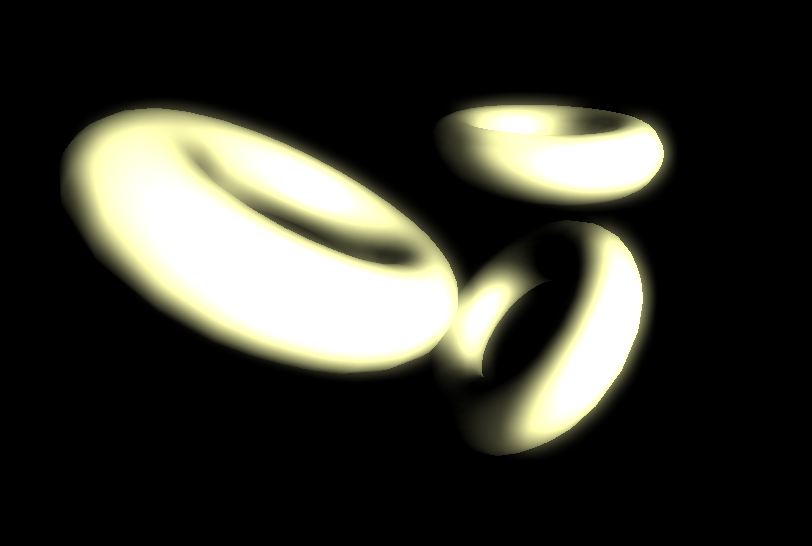
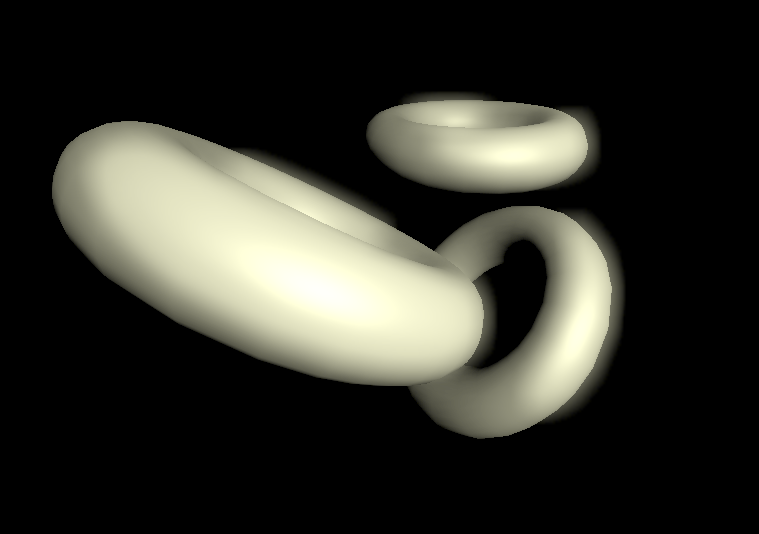
fixed missing gamma correction, updated screenshot

Changed region(s): [[0.0606, 0.1498, 0.8485, 0.839]]

diff --git a/src/main.cpp b/src/main.cpp
@@ -203,11 +203,11 @@ void UpdateTick(float deltaTime)
     transforms.proj = DirectX::XMMatrixTranspose(DirectX::XMMatrixPerspectiveFovLH(1.5f, static_cast<float>(WIDTH) / static_cast<float>(HEIGHT), 0.01f, 100.f));
 
     // update light source (same as before: since it is constant, we do not need to update it every frame)
-    DirectX::XMVECTOR lightWorldPos = DirectX::XMVectorSet(-1.5f, 1.f, 1.2f, 1.f);
+    DirectX::XMVECTOR lightWorldPos = DirectX::XMVectorSet(-1.5f, 1.5f, 1.5f, 1.f);
     DirectX::XMVECTOR lightViewPos = DirectX::XMVector4Transform(lightWorldPos, transforms.view);
     DirectX::XMStoreFloat4(&lightSource.lightPosition, lightViewPos);
 
-    lightSource.lightColorAndPower = DirectX::XMFLOAT4(1.f, 1.f, 0.7f, 5.f);
+    lightSource.lightColorAndPower = DirectX::XMFLOAT4(1.f, 1.f, 0.7f, 4.5f);
 }
 
 void RenderFrame()
@@ -333,7 +333,7 @@ void RenderFrame()
 
     deviceContext->PSSetSamplers(0, 1, &defaultSamplerState);
 
-    CompositeParams compParams = { 1.5f };
+    CompositeParams compParams = { 0.75f };
     {
         D3D11_MAPPED_SUBRESOURCE ms;
         deviceContext->Map(compositionConstantBuffer, 0, D3D11_MAP_WRITE_DISCARD, 0, &ms);
@@ -378,7 +378,7 @@ void InitRenderData()
         textureDesc.Height = heights[i];
         textureDesc.MipLevels = 1;
         textureDesc.ArraySize = 1;
-        textureDesc.Format = DXGI_FORMAT_R32G32B32A32_FLOAT;
+        textureDesc.Format = DXGI_FORMAT_R8G8B8A8_UNORM;
         textureDesc.SampleDesc.Count = 1;
         textureDesc.Usage = D3D11_USAGE_DEFAULT;
         textureDesc.BindFlags = D3D11_BIND_RENDER_TARGET | D3D11_BIND_SHADER_RESOURCE | D3D11_BIND_UNORDERED_ACCESS;
@@ -418,7 +418,7 @@ void InitRenderData()
         }
 
         // 4. Create UAV
-        uavDesc.Format = DXGI_FORMAT_R32G32B32A32_FLOAT;
+        uavDesc.Format = DXGI_FORMAT_R8G8B8A8_UNORM;
         uavDesc.ViewDimension = D3D11_UAV_DIMENSION_TEXTURE2D;
         uavDesc.Texture2D.MipSlice = 0;
 
@@ -684,8 +684,9 @@ void InitRenderData()
 
     // Material and light source
     {
-        lightSource.lightPosition = DirectX::XMFLOAT4(1.5f, 1.5f, 1.2f, 1.f);
-        lightSource.lightColorAndPower = DirectX::XMFLOAT4(1.f, 1.f, 1.f, 5.f);
+        // light values are updated during UpdateTick()
+        lightSource.lightPosition = DirectX::XMFLOAT4(1.f, 1.f, 1.f, 1.f);
+        lightSource.lightColorAndPower = DirectX::XMFLOAT4(1.f, 1.f, 1.f, 1.f);
 
         material.ambient = DirectX::XMFLOAT4(0.f, 0.f, 0.f, 1.f);
         material.diffuse = DirectX::XMFLOAT4(1.f, 1.f, 1.f, 1.f);
@@ -859,12 +860,12 @@ void InitD3D(HWND hWnd)
     DXGI_SWAP_CHAIN_DESC scd;
     ZeroMemory(&scd, sizeof(DXGI_SWAP_CHAIN_DESC));
 
-    scd.BufferCount = 1;                                    // one back buffer
-    scd.BufferDesc.Format = DXGI_FORMAT_R8G8B8A8_UNORM;     // use 32-bit color
-    scd.BufferUsage = DXGI_USAGE_RENDER_TARGET_OUTPUT;      // how swap chain is to be used
-    scd.OutputWindow = hWnd;                                // the window to be used
-    scd.SampleDesc.Count = 1;                               // how many multisamples
-    scd.Windowed = TRUE;                                    // windowed/full-screen mode
+    scd.BufferCount = 1;                                        // one back buffer
+    scd.BufferDesc.Format = DXGI_FORMAT_R8G8B8A8_UNORM_SRGB;    // use SRGB for gamma-corrected output
+    scd.BufferUsage = DXGI_USAGE_RENDER_TARGET_OUTPUT;          // how swap chain is to be used
+    scd.OutputWindow = hWnd;                                    // the window to be used
+    scd.SampleDesc.Count = 1;                                   // how many multisamples
+    scd.Windowed = TRUE;                                        // windowed/full-screen mode
 
     // create a device, device context and swap chain
     D3D11CreateDeviceAndSwapChain(NULL,
@@ -881,12 +882,20 @@ void InitD3D(HWND hWnd)
         &deviceContext);
 
     // get the address of the back buffer
-    ID3D11Texture2D *pBackBuffer;
+    ID3D11Texture2D *pBackBuffer = nullptr;
     swapchain->GetBuffer(0, __uuidof(ID3D11Texture2D), (LPVOID*)&pBackBuffer);
 
-    // use the back buffer address to create the render target
-    device->CreateRenderTargetView(pBackBuffer, nullptr, &backbuffer);
-    pBackBuffer->Release();
+    if (pBackBuffer != nullptr)
+    {
+        // use the back buffer address to create the render target
+        device->CreateRenderTargetView(pBackBuffer, nullptr, &backbuffer);
+        pBackBuffer->Release();
+    }
+    else
+    {
+        std::cerr << "Could not obtain backbuffer from swapchain";
+        exit(-1);
+    }
 
     // build shaders
     ID3DBlob* errorBlob = nullptr;
